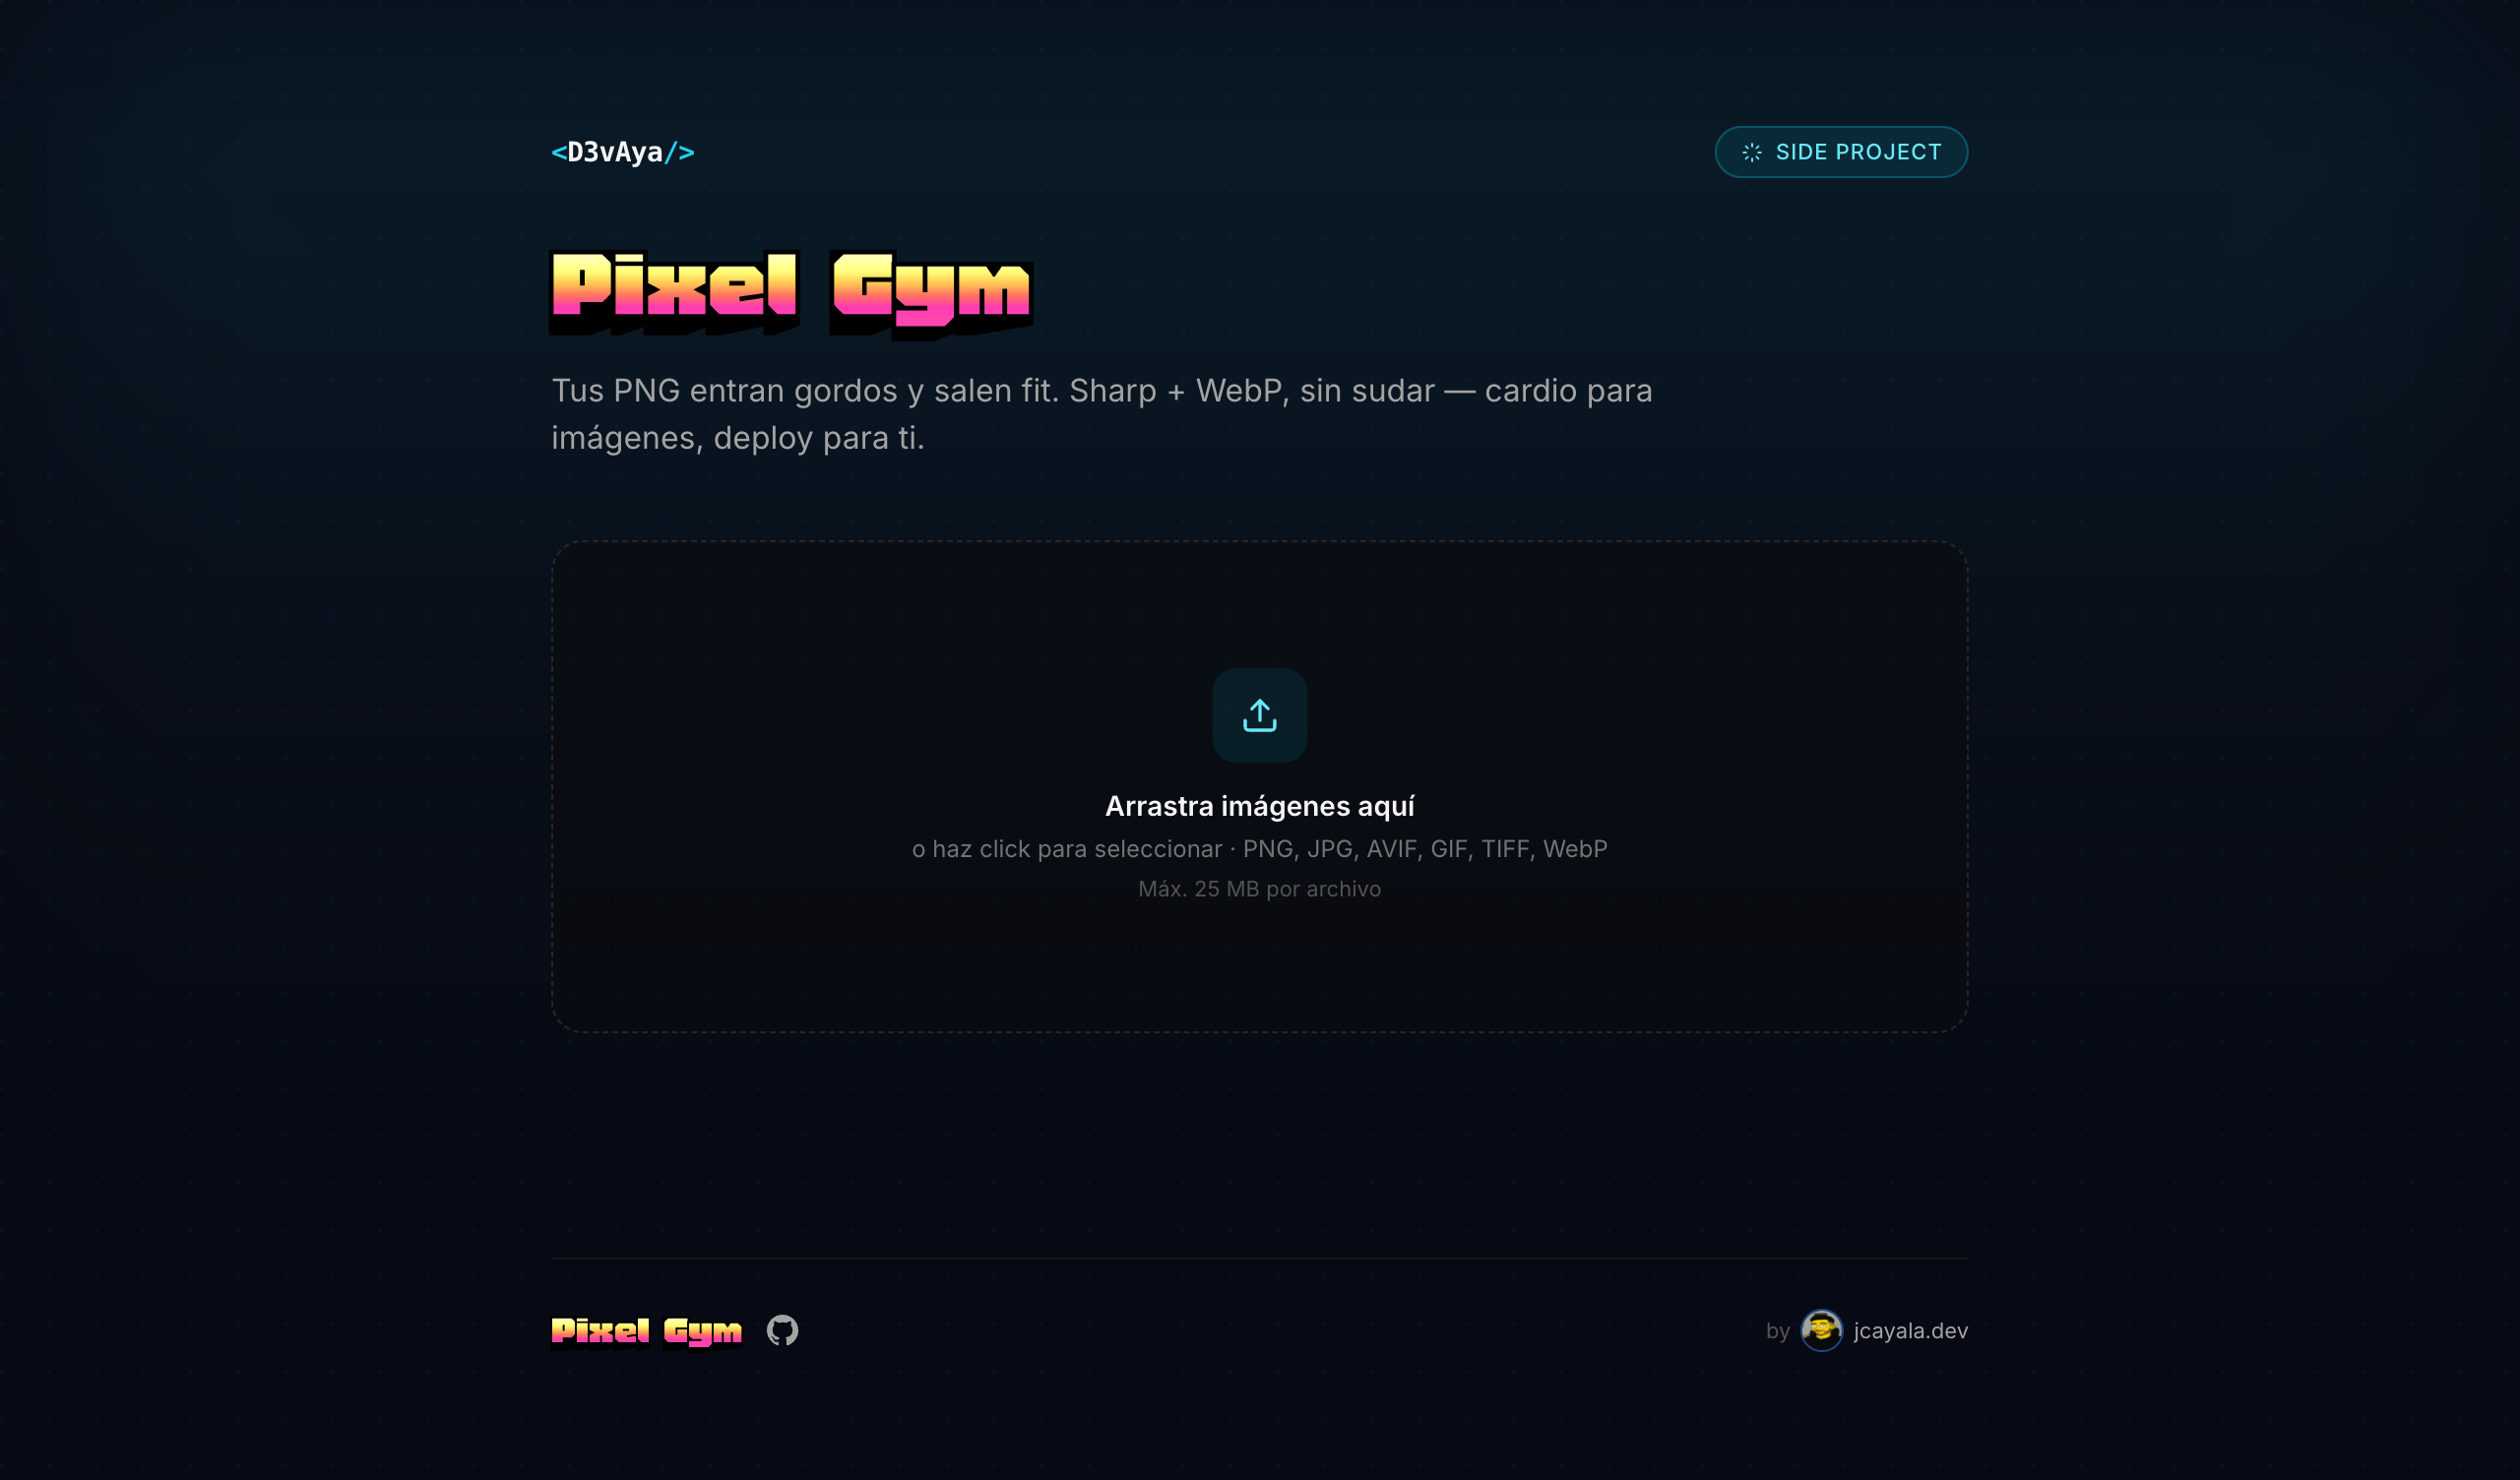
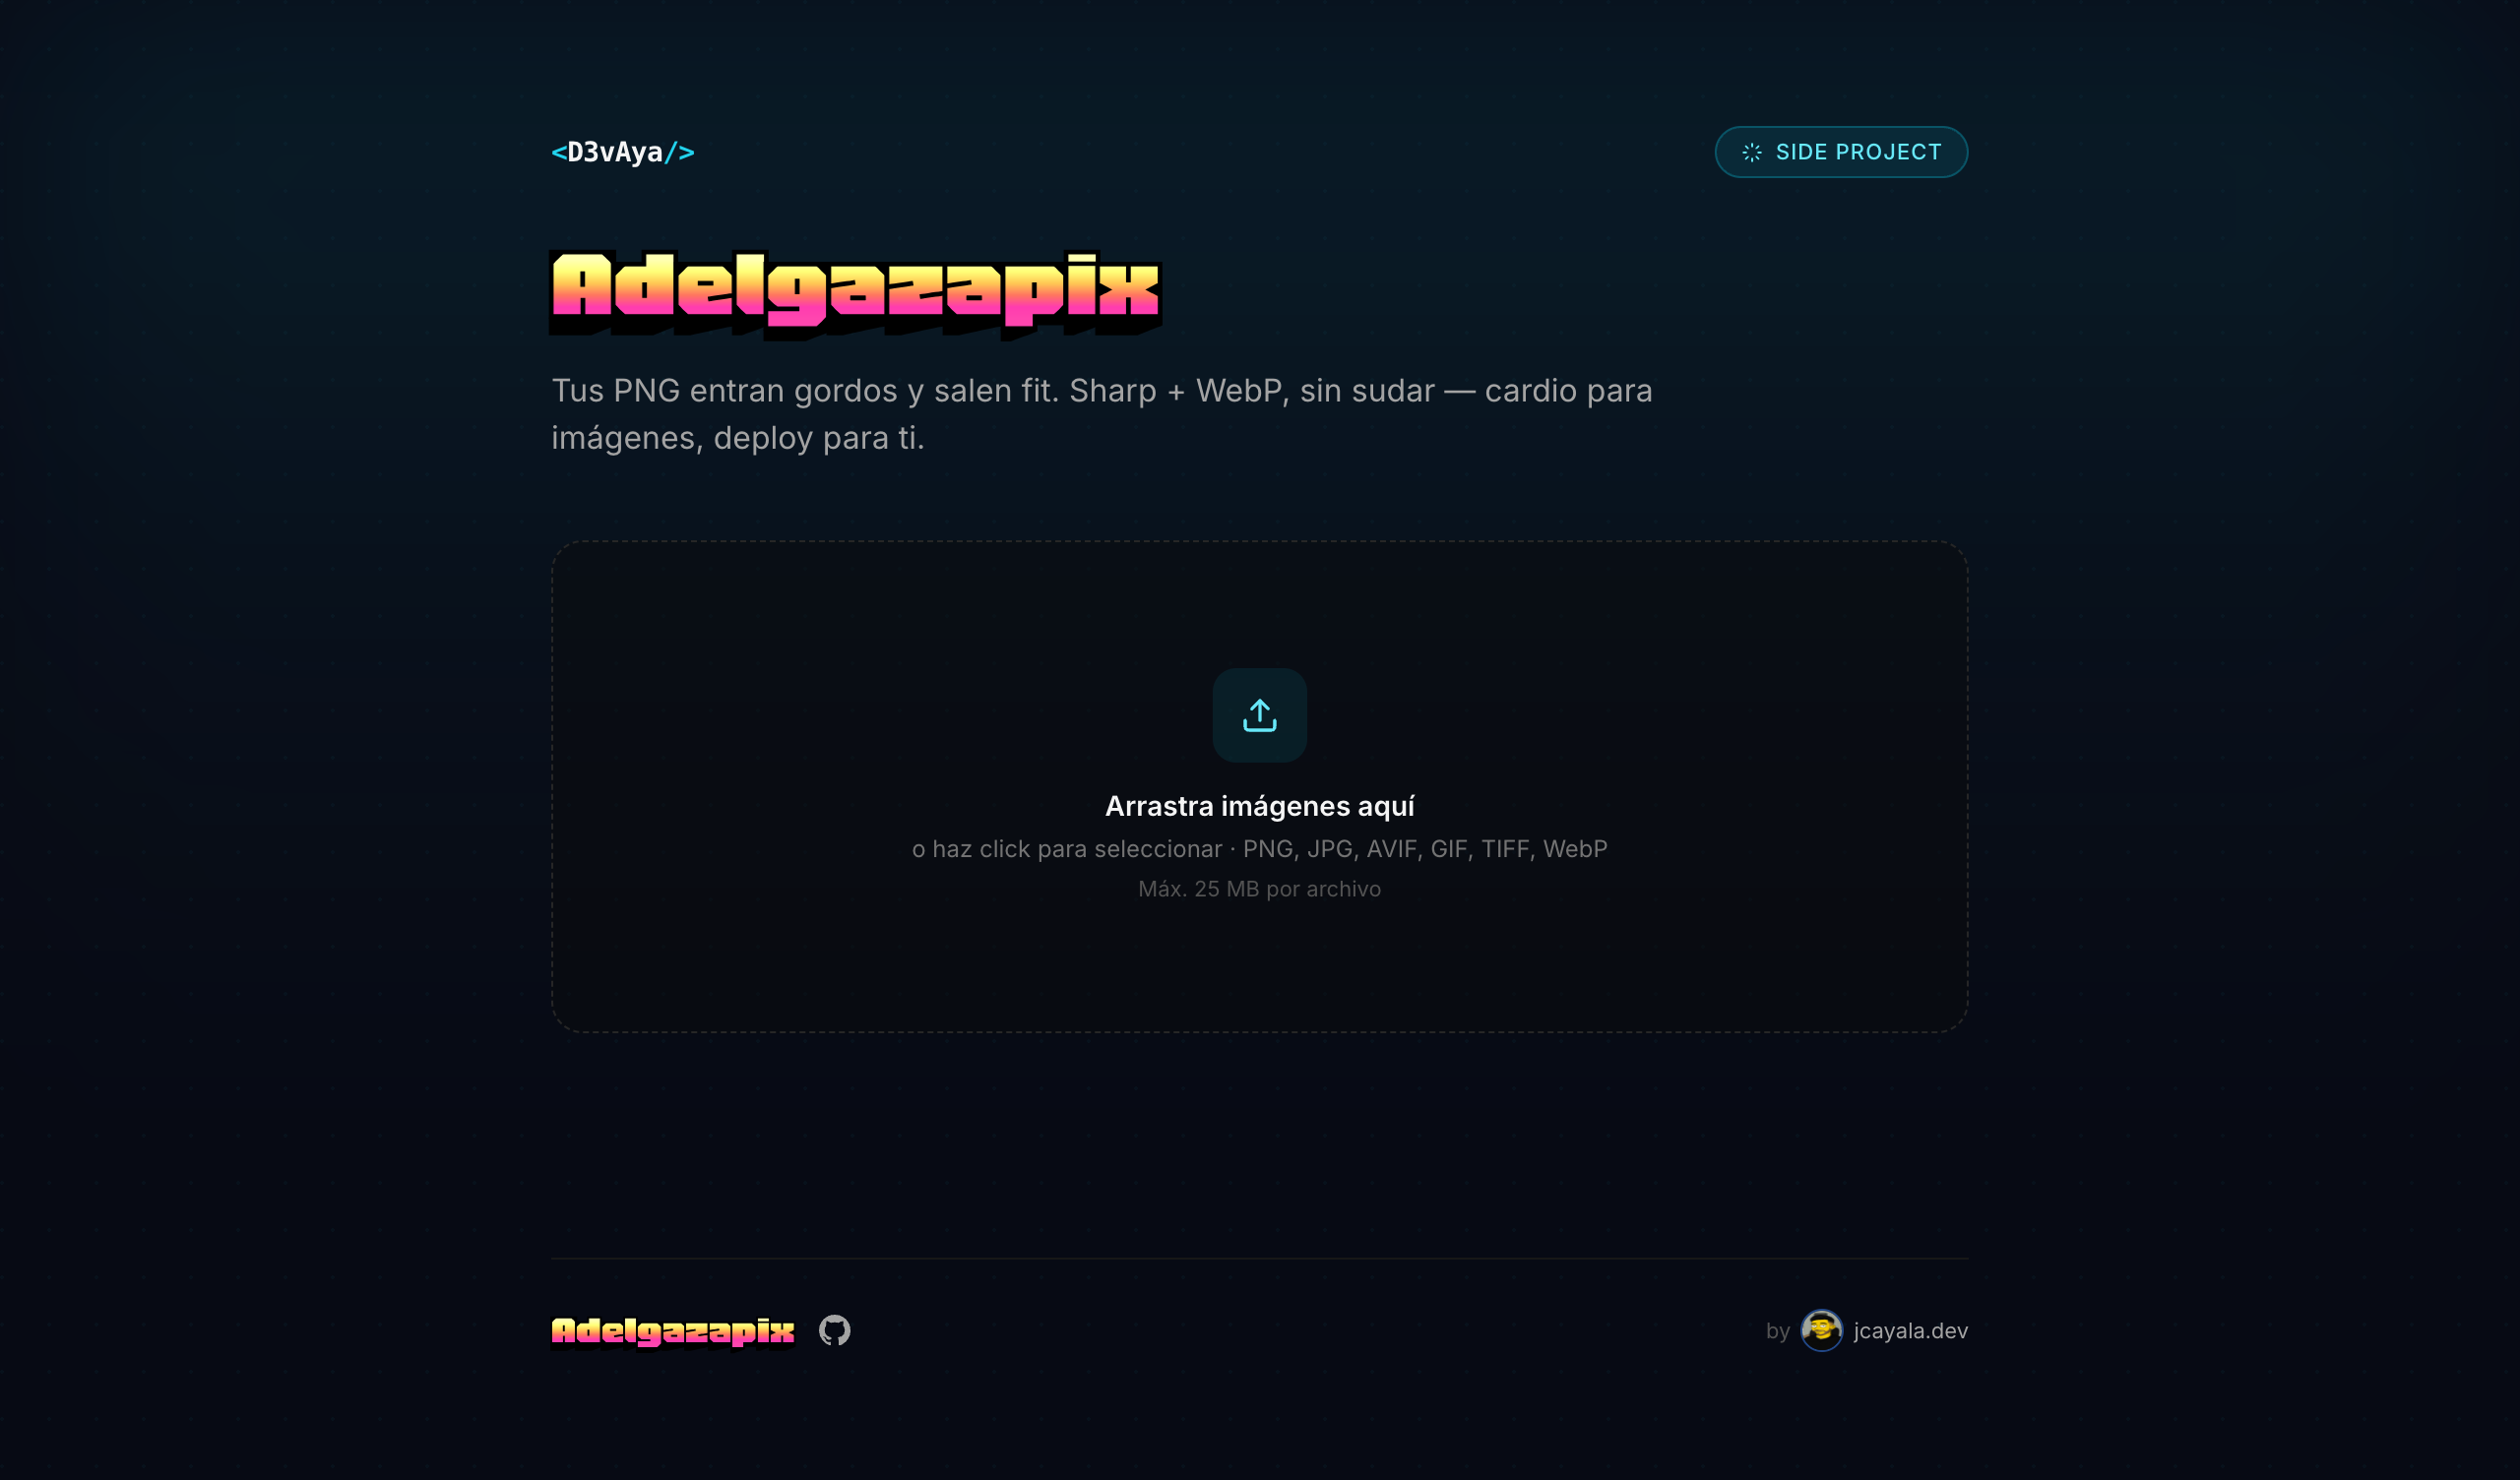
Refactor code structure for improved readability and maintainability

Changed region(s): [[0.2188, 0.1562, 0.4688, 0.25], [0.2188, 0.875, 0.3438, 0.9062]]

diff --git a/branding.config.ts b/branding.config.ts
@@ -11,9 +11,9 @@ export const branding = {
   /** Visible copy across the app. */
   brand: {
     name: "<D3vAya/>",
-    product: "Pixel Gym",
+    product: "Adelgazapix",
     /** Optional: makes the product title in the header clickable (opens in new tab). */
-    productHref: "https://github.com/D3vaya/pixel-gym",
+    productHref: "https://github.com/D3vaya/adelgazapix",
     tagline:
       "Tus PNG entran gordos y salen fit. Sharp + WebP, sin sudar — cardio para imágenes, deploy para ti.",
     badge: "side project",

diff --git a/proxy.ts b/proxy.ts
@@ -10,7 +10,7 @@ const AUTH_PASS = process.env.ACCESS_PASS;
 
 /**
  * Comma-separated list of allowed origins. Example:
- *   ALLOWED_ORIGIN=https://pixel-gym.vercel.app,http://localhost:3000
+ *   ALLOWED_ORIGIN=https://adelgazapix.vercel.app,http://localhost:3000
  * If unset, the origin check is skipped.
  */
 const ALLOWED_ORIGINS = (process.env.ALLOWED_ORIGIN ?? "")
@@ -18,7 +18,7 @@ const ALLOWED_ORIGINS = (process.env.ALLOWED_ORIGIN ?? "")
   .map((s) => s.trim())
   .filter(Boolean);
 
-const REALM = "Pixel Gym";
+const REALM = "Adelgazapix";
 
 export const config = {
   /**

diff --git a/app/layout.tsx b/app/layout.tsx
@@ -19,6 +19,9 @@ export const metadata: Metadata = {
   title: `${branding.brand.name} · ${branding.brand.product}`,
   description: branding.brand.tagline,
   robots: { index: false, follow: false },
+  appleWebApp: {
+    title: branding.brand.product.toLowerCase(),
+  },
 };
 
 export const viewport: Viewport = {

diff --git a/components/Uploader.tsx b/components/Uploader.tsx
@@ -378,7 +378,7 @@ export function Uploader() {
       const url = URL.createObjectURL(blob);
       const a = document.createElement("a");
       a.href = url;
-      a.download = `${branding.brand.name.toLowerCase().replace(/[^a-z0-9]/g, "-")}-webp.zip`;
+      a.download = `${branding.brand.product.toLowerCase().replace(/[^a-z0-9]/g, "-")}-webp.zip`;
       document.body.appendChild(a);
       a.click();
       a.remove();

diff --git a/lib/rate-limit.ts b/lib/rate-limit.ts
@@ -23,7 +23,7 @@ export function getRatelimit(): Ratelimit | null {
     /** 20 image uploads per minute per IP, sliding window. */
     limiter: Ratelimit.slidingWindow(20, "1 m"),
     analytics: true,
-    prefix: "pixel-gym",
+    prefix: "adelgazapix",
   });
   return cached;
 }

diff --git a/README.md b/README.md
@@ -1,8 +1,8 @@
-# Pixel Gym
+# Adelgazapix
 
 > Tus PNG entran gordos y salen fit. Sharp + WebP, sin sudar — cardio para imágenes, deploy para ti.
 
-![Pixel Gym screenshot](./docs/screenshot.png)
+![Adelgazapix screenshot](./docs/screenshot.png)
 
 App liviana para que un equipo (o tú mismo) suba imágenes desde el navegador, las procese con **Sharp** en el servidor y descargue WebP optimizado: una a una o todo en un ZIP.
 
@@ -27,8 +27,8 @@ Construido con Next.js 16 (App Router) + React 19 + Sharp 0.33 + Tailwind 3 + Ty
 ## Arranque rápido
 
 ```bash
-git clone https://github.com/D3vaya/pixel-gym.git
-cd pixel-gym
+git clone https://github.com/D3vaya/adelgazapix.git
+cd adelgazapix
 npm install
 npm run dev
 # → http://localhost:3000
@@ -57,7 +57,7 @@ Después de cualquier cambio, reinicia `npm run dev`.
 ```ts
 brand: {
   name: "<D3vAya/>",                 // wordmark del header (si lleva <…/> se estiliza como código)
-  product: "Pixel Gym",              // título grande
+  product: "Adelgazapix",            // título grande
   productHref: "https://github.com/...",  // opcional: el título lleva al repo
   tagline: "...",                    // descripción debajo del título
   badge: "side project",             // chip en la esquina superior derecha
@@ -180,7 +180,7 @@ ACCESS_USER=admin
 ACCESS_PASS=replace-with-a-strong-password
 
 # Anti-hotlinking: solo aceptar POSTs desde estos dominios (comma-separated)
-ALLOWED_ORIGIN=https://pixel-gym.vercel.app,http://localhost:3000
+ALLOWED_ORIGIN=https://adelgazapix.vercel.app,http://localhost:3000
 
 # Rate limit persistente por IP (20 req/min, sliding window)
 # Free tier en https://upstash.com